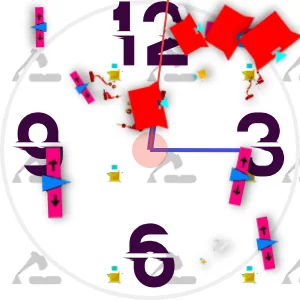
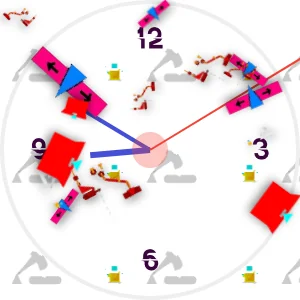
n

diff --git a/src/pages/2026/26-07/26-07-06/Clock.tsx b/src/pages/2026/26-07/26-07-06/Clock.tsx
@@ -165,7 +165,7 @@ const analogStyles: { [key: string]: React.CSSProperties } = {
   number: {
     position: 'absolute',
     fontFamily: 'ClockFont_26_07_07, sans-serif',
-    fontSize: '30vh',
+    fontSize: '10vh',
     color: '#3B053F',
     transform: 'translate(-50%, -50%)',
     userSelect: 'none',
